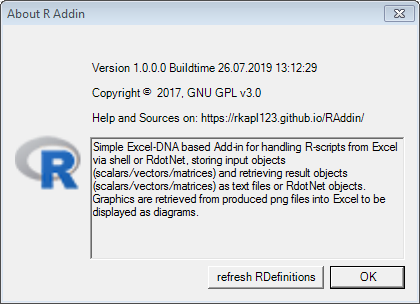
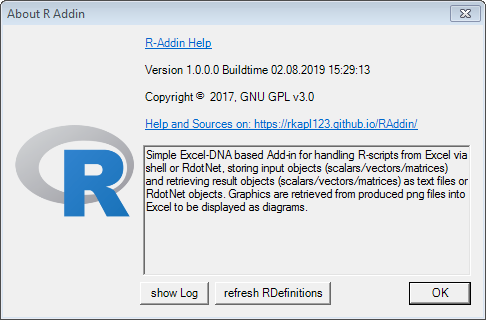
amended documentation for logging

diff --git a/docs/README.md b/docs/README.md
@@ -65,7 +65,11 @@ In the 3rd column are the definition paths of the files referred to in arg, res 
 The definitions are loaded into the Rdefinition dropdown either on opening/activating a Workbook with above named areas or by pressing the small dialogBoxLauncher "refresh Rdefinitions" on the R Addin Ribbon Tab and clicking "refresh Rdefinitions":  
 ![Image of screenshot2](https://raw.githubusercontent.com/rkapl123/RAddin/master/docs/screenshot2.png)
 
+The mentioned hyperlink to the local help file can be configured in the app config file (Raddin-AddIn<64>-packed.xll.config) with key "LocalHelp".
 When saving the Workbook the input arguments (definition with arg) defined in the currently selected Rdefinition dropdown are stored as well. If nothing is selected, the first Rdefinition of the dropdown is chosen.
+
+The error messages are logged to a diagnostic log provided by ExcelDna, which can be accessed by clicking on "show Log". The log level can be set in the app `system.diagnostics` section of the config file (Raddin-AddIn<64>-packed.xll.config):
+Either you set the switchValue attribute of the source element to prevent any trace messages being generated at all, or you set the initializeData attribute of the added LogDisplay listener to prevent the generated messages to be shown (below the chosen level)  
 
 Issues:
 
@@ -81,7 +85,22 @@ and run AddIns("Raddin-AddIn-packed.xll").Installed = True in Excel (or add the 
 Adapt the settings in Raddin-AddIn<64>-packed.xll.config:
 
 ```XML
+  <system.diagnostics>
+    <sources>
+      <source name="ExcelDna.Integration" switchValue="All">
+        <listeners>
+          <remove name="System.Diagnostics.DefaultTraceListener" />
+          <add name="LogDisplay" type="ExcelDna.Logging.LogDisplayTraceListener,ExcelDna.Integration">
+            <!-- EventTypeFilter takes a SourceLevel as the initializeData: 
+                    Off, Critical, Error, Warning (default), Information, Verbose, All -->
+            <filter type="System.Diagnostics.EventTypeFilter" initializeData="Warning" />
+          </add>
+        </listeners>
+      </source>
+    </sources>
+  </system.diagnostics>
   <appSettings file="O:\SOFTWARE\TRIT\R\RAddinSettings.config"> : This is a redirection to a central config file containing the same information below
+    <add key="LocalHelp" value="C:\YourPathToLocalHelp\LocalHelp.htm" />
     <add key="ExePath" value="C:\Program Files\R\R-3.4.0\bin\x64\Rscript.exe" /> : The Executable Path used by the shell invocation method
     <add key="rHome" value="C:\Program Files\R\R-3.4.0" /> : rHome for the RdotNet invocation method, to get the R-DLL-Path the rPath<bitness>bit setting below is used 
     <add key="rPath64bit" value="bin\x64" /> : the folder for the 64 bit R-DLLs 
